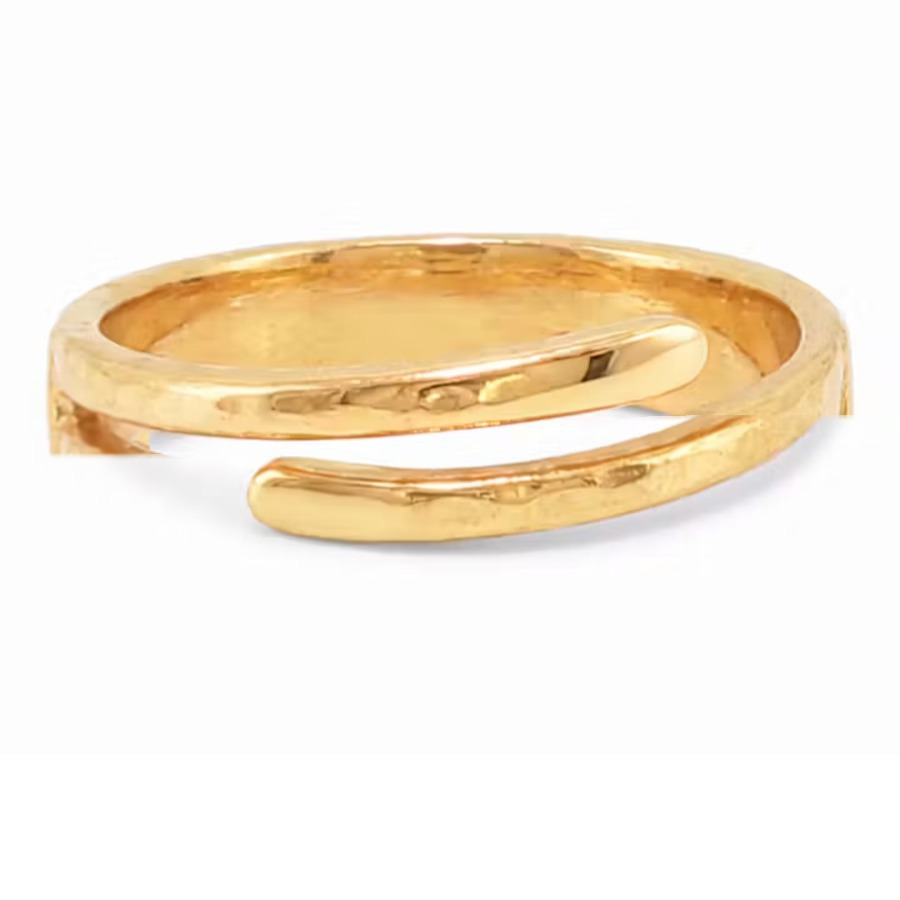
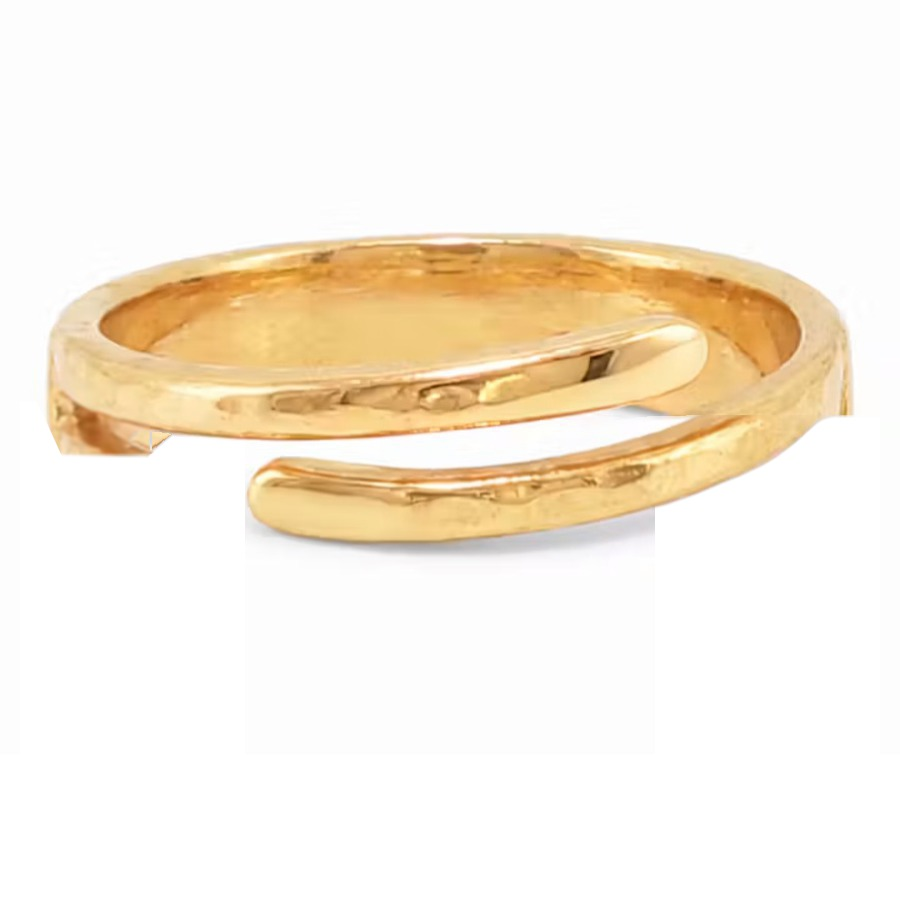
1-wrap: band edges cleaned at both sides, top stone moved left

Changed region(s): [[0.7156, 0.4667, 0.9333, 0.5911], [0.1556, 0.4667, 0.2178, 0.5289], [0.0311, 0.4667, 0.0622, 0.4978]]

diff --git a/index.html b/index.html
@@ -1087,7 +1087,7 @@ const PHOTO_STONES = {
 const PLAIN = {1:'img/studio/plain-1.jpg', 2:'img/studio/plain-2.jpg', 3:'img/studio/plain-3.jpg', 4:'img/studio/plain-4.jpg', 5:'img/studio/plain-5.jpg'};
 /* where her stones sit on each plain ring (mapped from her photo) */
 const PLAIN_STONES = {
-  1:{wraps:[{x:560,y:395,r:40,m:10}], bottom:{x:412,y:545,w:330,h:190,m:3,shape:'pear',turn:true,tip:{x:247,y:494}}},
+  1:{wraps:[{x:515,y:398,r:40,m:10}], bottom:{x:412,y:545,w:330,h:190,m:3,shape:'pear',turn:true,tip:{x:247,y:494}}},
   2:{wraps:[{x:378,y:402,r:40,m:0},{x:190,y:505,r:40,m:0}], bottom:{x:412,y:700,w:330,h:190,m:3,shape:'pear',turn:true,tip:{x:247,y:637}}},
   3:{wraps:[{x:378,y:405,r:40,m:0},{x:190,y:482,r:40,m:0},{x:625,y:548,r:40,m:6}], bottom:{x:412,y:700,w:330,h:190,m:3,shape:'pear',turn:true,tip:{x:247,y:628}}},
   4:{wraps:[{x:378,y:180,r:40,m:0},{x:215,y:296,r:40,m:0},{x:535,y:410,r:40,m:6},{x:283,y:545,r:40,m:7}], bottom:{x:412,y:717,w:330,h:190,m:3,shape:'pear',turn:true,tip:{x:249,y:655}}},
